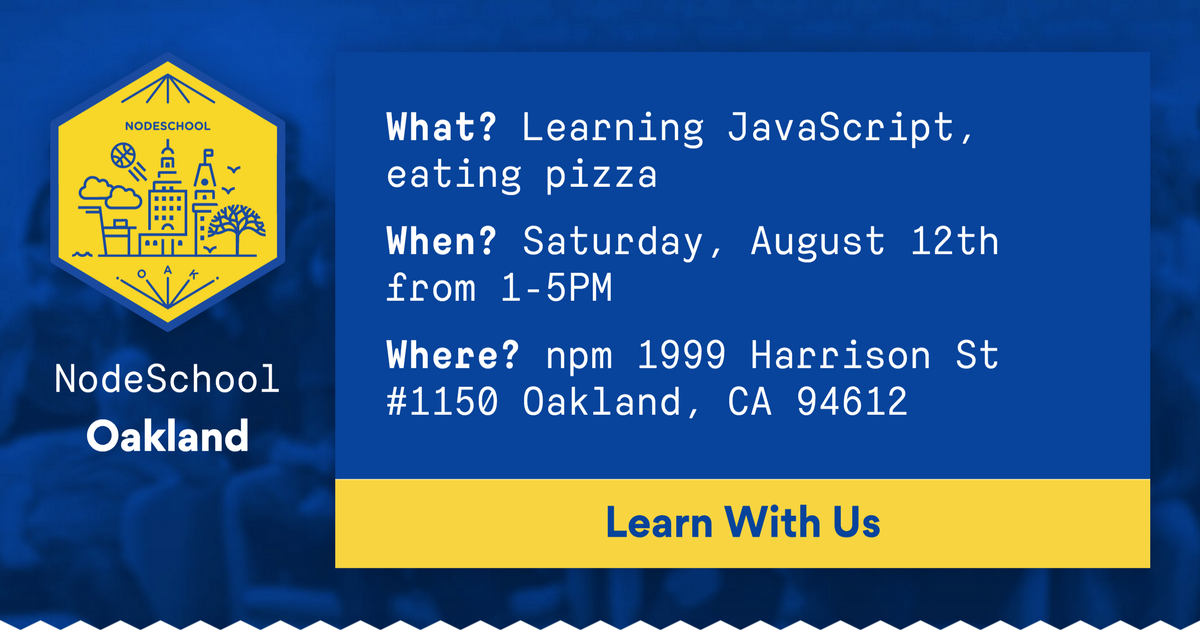
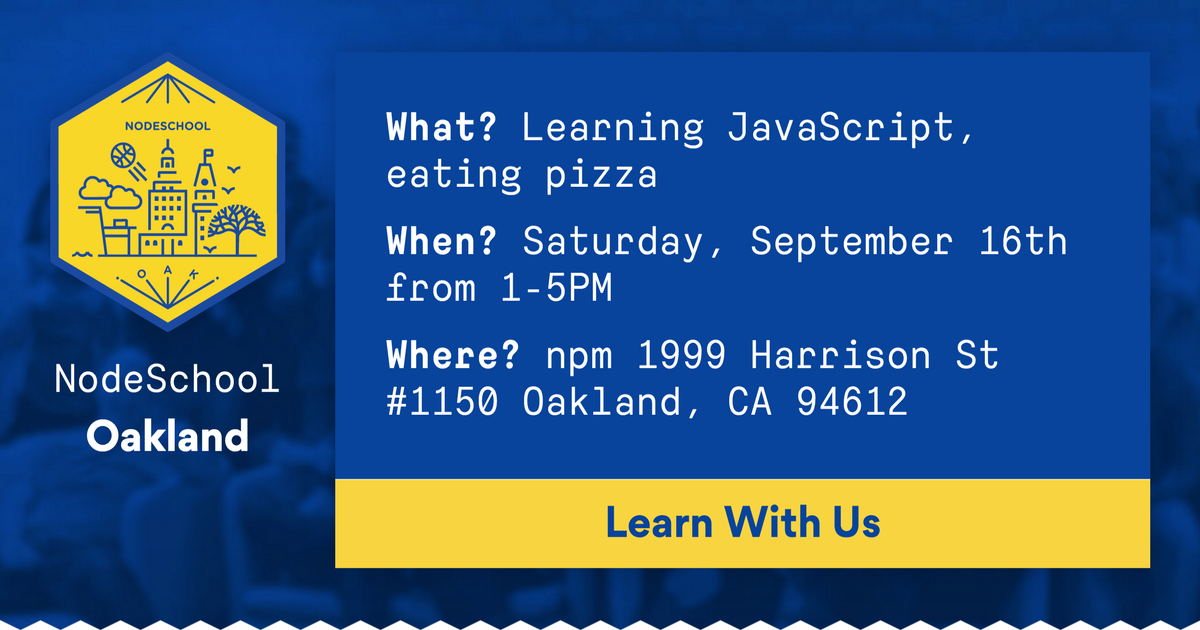
AUTOMATIC site update

Changed region(s): [[0.6167, 0.3619, 0.8942, 0.4222]]

diff --git a/docs/index.html b/docs/index.html
@@ -7,14 +7,15 @@
     <meta property="og:type" content="website" />
     <meta property="og:description" content="NodeSchool Oakland is a monthly meetup dedicated to helping people learn JavaScript." />
     <meta property="og:url" content="https://nodeschool.io/oakland/" />
-    <meta property="og:image" content="https://nodeschool.io/oakland/images/social.png?t=1501520212657" />
+    <meta property="og:image" content="https://nodeschool.io/oakland/images/social.png?t=1504298910758" />
     <!--Twitter-->
     <meta name="twitter:card" content="summary_large_image">
     <meta name="twitter:site" content="@nodeschooloak">
     <meta name="twitter:creator" content="@nodeschooloak">
     <meta name="twitter:title" content="NodeSchool Oakland">
     <meta name="twitter:description" content="NodeSchool Oakland is a monthly meetup dedicated to helping people learn JavaScript.">
-    <meta name="twitter:image" content="https://nodeschool.io/oakland/images/social.png?t=1501520212657">
+    <meta name="twitter:image" content="https://nodeschool.io/oakland/images/social.png?t=1504298910758">
+
     <title>NodeSchool Oakland</title>
     <link rel="stylesheet" href="./styles/index.css" />
   </head>
@@ -62,10 +63,10 @@
 
           <div class="next-event">
             <div class="next-event__description">
-              <h2 class="next-event__heading">Our Next Event is on August 12th</h2>
+              <h2 class="next-event__heading">Our Next Event is on September 16th</h2>
               <ul class="next-event__info">
                 <li class="next-event__info__item">
-                  <strong class="strong--alt">When?</strong> Saturday, August 12th from 1-5PM
+                  <strong class="strong--alt">When?</strong> Saturday, September 16th from 1-5PM
                 </li>
                 <li class="next-event__info__item">
                   <strong class="strong--alt">Where?</strong> npm 1999 Harrison St #1150 Oakland, CA 94612 [<a href="http://maps.google.com/?q=1999%20Harrison%20St%20%231150%20Oakland%2C%20CA%2094612">map</a>]
@@ -76,9 +77,9 @@
               </ul>
             </div>
             <nav class="next-event__actions">
-              <a class="next-event__action__learner next-event__action button" href="https:&#x2F;&#x2F;ti.to&#x2F;nodeschool-oakland&#x2F;nodeschool-oakland-august-2017">
+              <a class="next-event__action__learner next-event__action button" href="https:&#x2F;&#x2F;ti.to&#x2F;nodeschool-oakland&#x2F;nodeschool-oakland-september-2017">
                 Sign up as a Learner
-              </a><a class="next-event__action__mentor next-event__action button" href="https:&#x2F;&#x2F;github.com&#x2F;nodeschool&#x2F;oakland&#x2F;issues&#x2F;55">
+              </a><a class="next-event__action__mentor next-event__action button" href="https:&#x2F;&#x2F;github.com&#x2F;nodeschool&#x2F;oakland&#x2F;issues&#x2F;56">
                 Sign up as a Mentor
               </a>
             </nav>

diff --git a/docs/social.html b/docs/social.html
@@ -20,7 +20,7 @@
         <div class="social__message next-event">
           <div class="next-event__description">
             <p><strong>What?</strong> Learning JavaScript, eating pizza</p>
-            <p><strong>When?</strong> Saturday, August 12th from 1-5PM</p>
+            <p><strong>When?</strong> Saturday, September 16th from 1-5PM</p>
             <p><strong>Where?</strong> npm 1999 Harrison St #1150 Oakland, CA 94612</p>
           </div>
           <div class="next-event__actions">
